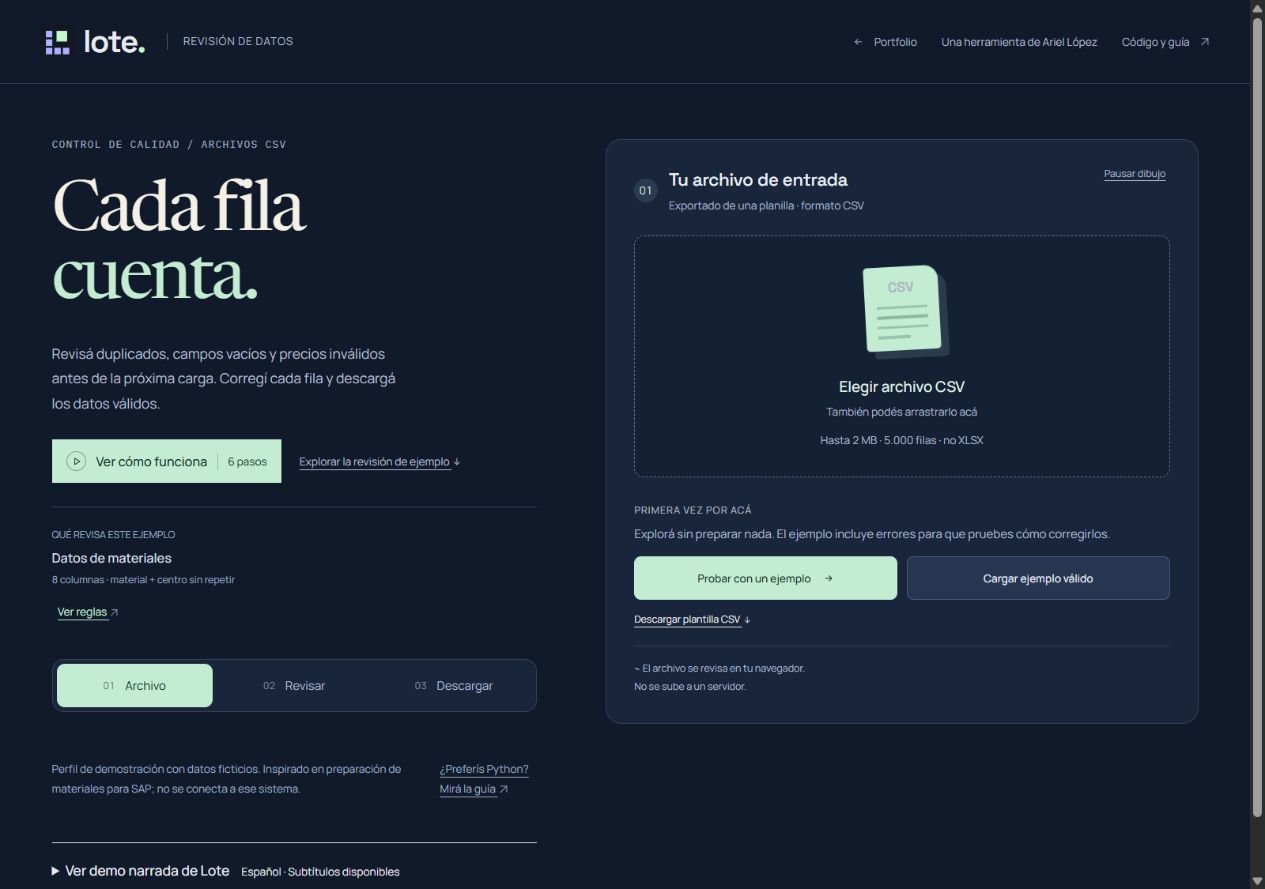
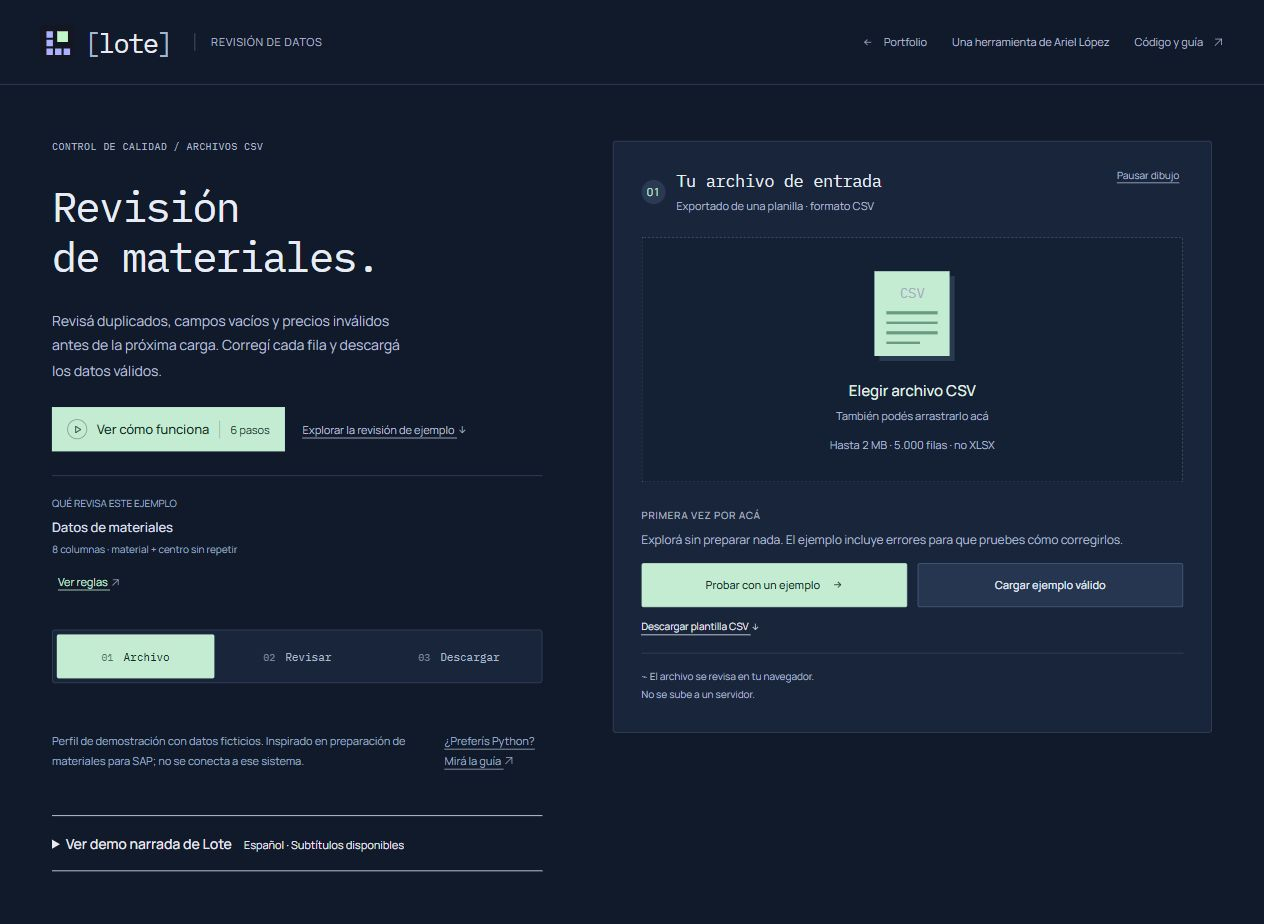
Replace editorial Lote headline with precise monospaced typography (#20)

diff --git a/product.css b/product.css
@@ -1,12 +1,6 @@
-@font-face {
-  font-family: Newsreader;
-  src: url('assets/newsreader.ttf') format('truetype');
-  font-weight: 200 800;
-  font-display: swap;
-}
 :root {
   --ui: Manrope, Arial, sans-serif;
-  --display: SpaceGrotesk, Arial, sans-serif;
+  --display: PlexMono, Arial, sans-serif;
   --ink: #e9e9f1;
   --muted: #a6adbf;
   --line: #34415a;
@@ -28,7 +22,7 @@ header {
 }
 .brand {
   font:
-    600 32px SpaceGrotesk,
+    600 32px PlexMono,
     sans-serif;
   color: #e9e9f1;
 }
@@ -63,11 +57,10 @@ main {
 }
 .intro h1 {
   font:
-    400 clamp(48px, 5.5vw, 76px) / 0.98 Newsreader,
-    Georgia,
-    serif;
+    400 clamp(30px, 3.3vw, 44px) / 1.2 PlexMono,
+    monospace;
   letter-spacing: -0.04em;
-  color: #f4f0e6;
+  color: #e8edf5;
 }
 .intro h1 em {
   font-style: italic;
@@ -183,7 +176,7 @@ main {
 .results-panel h2,
 h2,
 h3 {
-  font-family: SpaceGrotesk, sans-serif;
+  font-family: PlexMono, sans-serif;
   color: #e8edf5;
   font-weight: 500;
   letter-spacing: -0.02em;
@@ -242,7 +235,7 @@ h3 {
 }
 .csv-emblem b {
   font:
-    500 14px SpaceGrotesk,
+    500 14px PlexMono,
     sans-serif;
   margin-bottom: 3px;
 }
@@ -347,7 +340,7 @@ h3 {
 .summary-grid strong,
 .score-head > span {
   color: #c3ecd2;
-  font-family: SpaceGrotesk, sans-serif;
+  font-family: PlexMono, sans-serif;
 }
 .summary-grid > article {
   background: transparent;
@@ -414,8 +407,8 @@ input::placeholder {
 }
 .flow-export-summary {
   font:
-    400 36px/1.15 Newsreader,
-    serif;
+    400 28px/1.4 PlexMono,
+    monospace;
   color: #e6f3e9;
   padding-bottom: 24px;
   border-bottom: 1px solid #34415a;
@@ -695,5 +688,91 @@ body[data-review-step='upload'] main > .cli-link {
   }
   .intro h1 {
     line-height: 1;
+  }
+}
+
+.brand {
+  font:
+    400 27px PlexMono,
+    monospace;
+  letter-spacing: -0.055em;
+}
+.brand > span:not(.brand-sub):before {
+  content: '[';
+  color: #a2b7d0;
+}
+.brand > span:not(.brand-sub):after {
+  content: ']';
+  color: #a2b7d0;
+}
+.brand-dot {
+  display: none;
+}
+.intro-copy > .eyebrow {
+  letter-spacing: 0.04em;
+  font-family: PlexMono, monospace;
+}
+.intro h1 em {
+  font-style: normal;
+  color: inherit;
+}
+.intro-explanation {
+  font-family: Manrope, sans-serif;
+  font-size: 14px;
+  line-height: 1.8;
+}
+.upload-panel h2,
+.results-panel h2,
+h2,
+h3 {
+  font-family: PlexMono, monospace;
+  font-size: 17px;
+  letter-spacing: -0.025em;
+}
+.flow-nav {
+  border-radius: 3px;
+}
+.flow-nav > button {
+  border-radius: 2px;
+  font-family: PlexMono, monospace;
+  font-size: 11px;
+}
+.upload-panel,
+.results-panel,
+.export-stage {
+  border-radius: 3px;
+}
+.button {
+  border-radius: 2px;
+}
+.file-zone {
+  border-radius: 2px;
+}
+.csv-emblem {
+  border-radius: 0;
+  box-shadow: 5px 5px 0 #2a3b50;
+  transform: none;
+}
+.file-zone[data-animate='true'] .csv-emblem {
+  animation: none;
+}
+.file-zone[data-animate='true'] .csv-emblem i {
+  animation: csv-line 3s ease-in-out infinite;
+}
+@media (max-width: 680px) {
+  .intro h1 {
+    font-size: 32px;
+    line-height: 1.2;
+  }
+  .brand {
+    font-size: 25px;
+  }
+  .upload-panel,
+  .results-panel,
+  .export-stage {
+    border-radius: 3px;
+  }
+  .flow-nav > button {
+    font-size: 10px;
   }
 }

diff --git a/index.html b/index.html
@@ -19,15 +19,15 @@
     <link rel="stylesheet" href="style.css?v=20261101-type-1" />
     <link rel="stylesheet" href="tutorial.css?v=20261101-type-1" />
     <link rel="stylesheet" href="identity.css?v=20261101-type-1" />
-    <script type="module" src="src/app.js?v=20261101-distinct-1"></script>
-    <link rel="stylesheet" href="direction.css?v=20261101-distinct-1" />
+    <script type="module" src="src/app.js?v=20261101-type2-1"></script>
+    <link rel="stylesheet" href="direction.css?v=20261101-type2-1" />
     <link rel="stylesheet" href="video.css?v=20261101-type-1" />
-    <script type="module" src="src/brand-motion.js?v=20261101-distinct-1"></script>
-    <link rel="stylesheet" href="brand-lab.css?v=20261101-distinct-1" />
-    <script type="module" src="src/brand-lab.js?v=20261101-distinct-1"></script>
-    <link rel="stylesheet" href="workspace.css?v=20261101-distinct-1" />
-    <link rel="stylesheet" href="product.css?v=20261101-distinct-1" />
-    <script type="module" src="src/interface-motion.js?v=20261101-distinct-1"></script>
+    <script type="module" src="src/brand-motion.js?v=20261101-type2-1"></script>
+    <link rel="stylesheet" href="brand-lab.css?v=20261101-type2-1" />
+    <script type="module" src="src/brand-lab.js?v=20261101-type2-1"></script>
+    <link rel="stylesheet" href="workspace.css?v=20261101-type2-1" />
+    <link rel="stylesheet" href="product.css?v=20261101-type2-1" />
+    <script type="module" src="src/interface-motion.js?v=20261101-type2-1"></script>
   </head>
   <body>
     <a class="skip" href="#main">Saltar al contenido</a>
@@ -78,7 +78,7 @@
           <div class="brand-word" aria-hidden="true">
             l<span class="letter-o">o</span>te<span class="brand-dot">*</span>
           </div>
-          <h1>Cada fila<br /><em>cuenta.</em></h1>
+          <h1>Revisión<br />de materiales.</h1>
           <p class="intro-explanation">
             Revisá duplicados, campos vacíos y precios inválidos antes de la próxima carga. Corregí
             cada fila y descargá los datos válidos.

diff --git a/README.md b/README.md
@@ -220,3 +220,7 @@ Validación local: 15 pruebas, ejemplo válido (6 filas), ejemplo con errores (1
 ## Espacio de archivos · 01/11/2026
 
 Lote tiene una entrada editorial oscura, Newsreader en el título principal y Manrope en controles. El archivo se prepara en un único espacio a la derecha de la introducción; revisión y descarga conservan pantallas propias. La ficha CSV es un dibujo CSS, separado de los resultados reales, con pausa, movimiento reducido y detención fuera de pantalla o al ocultar la pestaña. Newsreader y su licencia OFL se sirven localmente. Captura actualizada. Validación: 15 pruebas, ejemplo válido, navegación a descarga, corrección y deshacer de precio; sin cambios en las reglas.
+
+## Tipografía de revisión · 01/11/2026
+
+La entrada se identifica como Revisión de materiales y usa IBM Plex Mono en marca, títulos y etapas; Manrope se mantiene en lectura y controles. Se retiraron la frase Cada fila cuenta y la serif Newsreader de la dirección actual. La ficha del archivo deja de flotar y conserva el pulso de sus líneas con pausa. Se mantiene el recorrido funcional y se actualiza la captura completa.
